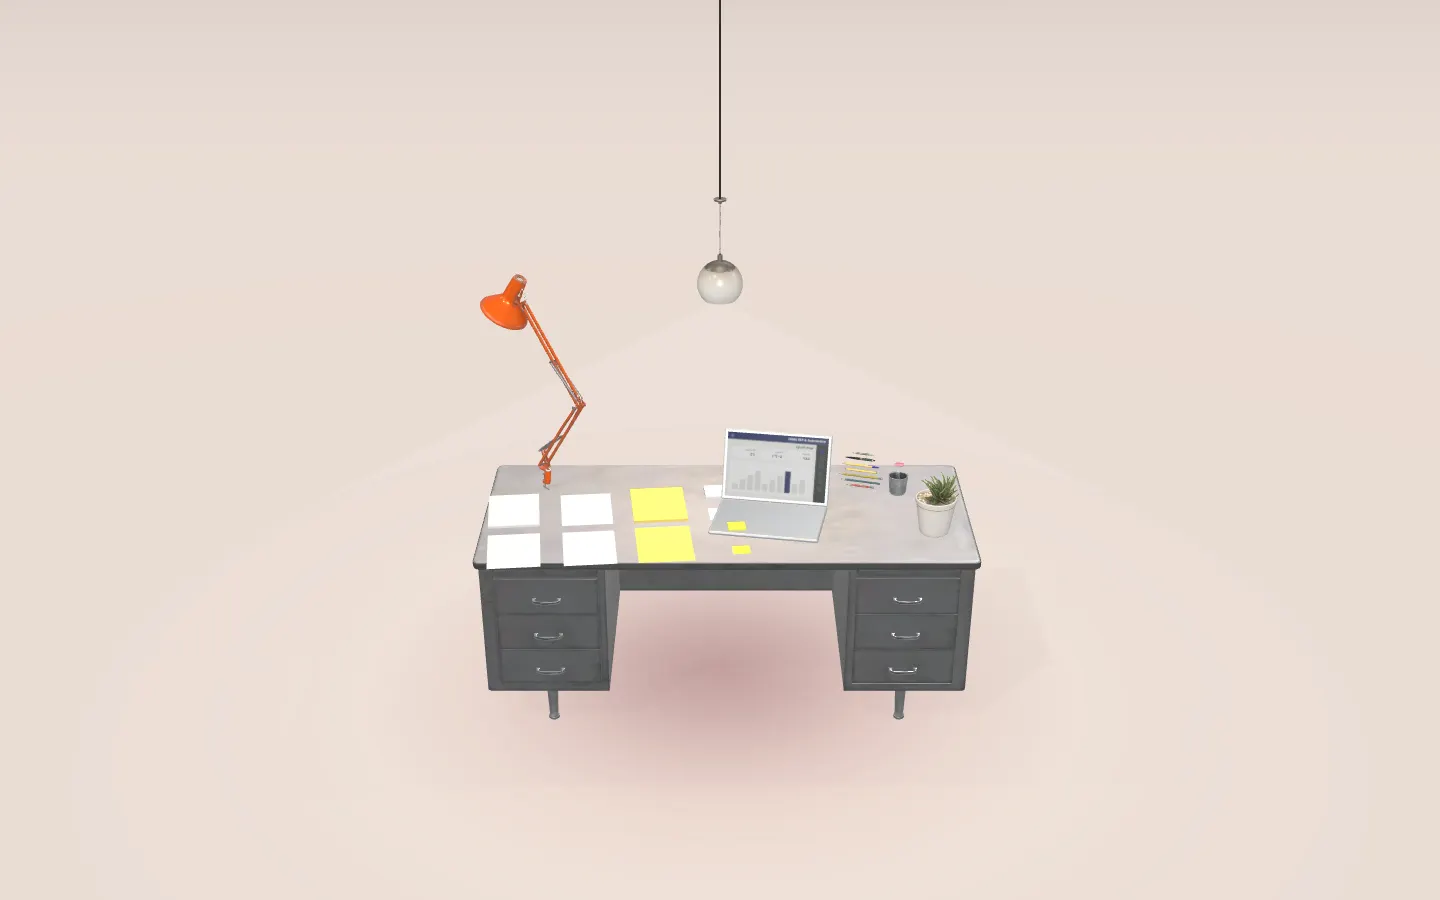
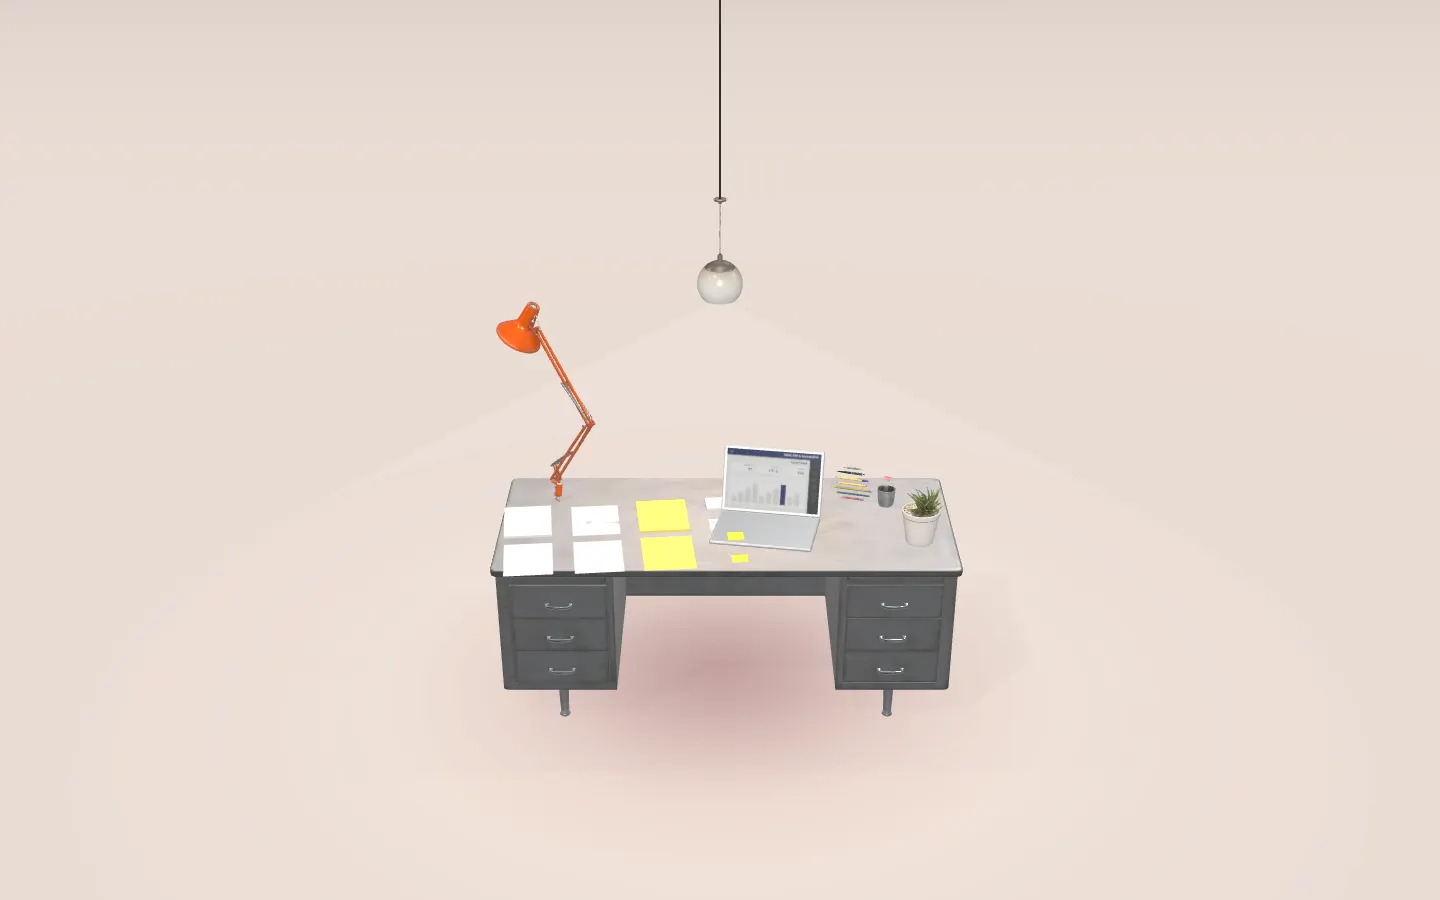
Opening view: size measured correctly (positions settled first, capped), base 2.8, ERP, restaurant and learning trimmed by eye; still regenerated

Changed region(s): [[0.3125, 0.3111, 0.6875, 0.8089]]

diff --git a/src/three/Showroom.tsx b/src/three/Showroom.tsx
@@ -216,7 +216,7 @@ const ease = (t: number) => t * t * (3 - 2 * t)
 /** Seconds a system takes to gather (or scatter) in the opening view. */
 const SWAP_S = 1.5
 /** How much bigger the single system is in the opening view than at its stop. */
-const HERO_SCALE = 3 // size of the system shown alone in the opening view
+const HERO_SCALE = 2.8 // size of the system shown alone in the opening view
 /** Every system sits on the same tinted ground, in the site's main colour. */
 const GROUND_COLOR = '#5e1a2c'
 
@@ -565,11 +565,14 @@ function Stations({ interactive, fixedStop, reduced, onLamp }: { interactive: bo
       return outer
     })
     const sizes = groups.map((g) => {
-      const v = new THREE.Box3().setFromObject(g).getSize(new THREE.Vector3())
+      // positions must be settled before measuring, or the box comes out wrong
+      g.updateMatrixWorld(true)
+      const v = new THREE.Box3().setFromObject(g, true).getSize(new THREE.Vector3())
       return Math.max(v.x, v.z, v.y * 1.1)
     })
     const avg = sizes.slice(0, tourStops.length - 1).reduce((a, b) => a + b, 0) / (tourStops.length - 1)
-    const norms = sizes.map((sz) => avg / Math.max(0.01, sz))
+    // never more than 30% larger or smaller than drawn, whatever the measurement says
+    const norms = sizes.map((sz) => THREE.MathUtils.clamp(avg / Math.max(0.01, sz), 0.7, 1.3))
     // every piece of every station remembers its resting place, so it can fly off and come back
     const parts = groups.map((g) =>
       g.children[0].children.map((o, k, all) => {
@@ -615,7 +618,8 @@ function Stations({ interactive, fixedStop, reduced, onLamp }: { interactive: bo
       const e = v * v * (3 - 2 * v)
       const sp = spotPos(i)
       outers[i].position.set(sp.x * (1 - b), 0, sp.z * (1 - b))
-      const hs = HERO_SCALE * norms[i]
+      // measured to the same size, then adjusted by eye: wide desks and counters read larger than racks and pallets
+      const hs = HERO_SCALE * norms[i] * (STATIONS[i].heroScale ?? 1)
       outers[i].scale.setScalar(Math.max(0.001, e * (1 + (hs - 1) * b)))
       outers[i].visible = e > 0.01 && a > 0.001
       outers[i].children[0].scale.setScalar(Math.max(0.001, a))

diff --git a/src/three/stations.ts b/src/three/stations.ts
@@ -108,7 +108,7 @@ export const STATIONS: Station[] = [
       { dev: 'kiosk', x: -0.98, z: -0.15, ry: 0.4 },
     ],
     shot: { az: -0.25, dist: 7, height: 2.6, look: 0.95, layout: 't', shift: [0, -0.16] },
-    heroScale: 0.82,
+    heroScale: 0.72,
   },
   {
     // Gym: an adjustable bench, a dumbbell rack, competition kettlebells, a medicine ball, a yoga mat, and the check-in kiosk
